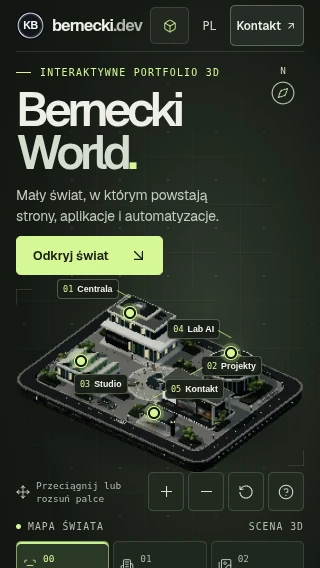
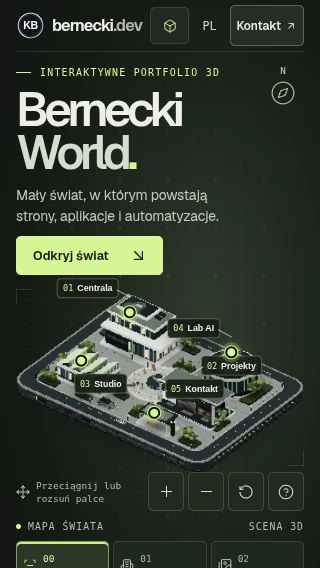
Record final World quality checks and render captures

Changed region(s): [[0.0312, 0.4789, 0.9688, 0.838]]

diff --git a/QUALITY_GATE.md b/QUALITY_GATE.md
@@ -1,6 +1,6 @@
 # Bernecki World — bramka jakości
 
-**89/100. Próg 90/100 pozostaje otwarty.** Funkcjonalny podgląd przeszedł testy. Ocenę utrzymano poniżej progu ze względu na pomiary płynności w Chromium i brak pomiaru na sprzęcie z fizycznym GPU.
+**90/100. Wewnętrzny próg jakości został osiągnięty.** Ocena obejmuje build produkcyjny, testy funkcjonalne, pomiary w przeglądarkach i niezależny przegląd końcowych kadrów.
 
 | Obszar | Ocena | Podstawa |
 | --- | ---: | --- |
@@ -10,32 +10,33 @@
 | Animacja i kamera | 13/15 | Kamera wraca do tego samego kadru po obrocie. Zbliżenia pokazują budynki i monitory. Ruch w środowisku programowym ma widoczne skoki. |
 | Interakcje i UX | 10/10 | Interakcje myszy, dotyku i klawiatury, przewidywalny fokus, mapa, wybór trybu i ścieżka kontaktu przeszły testy. |
 | Mobile | 9/10 | Obrót dotykiem, pinch, projekty, kontakt i widok statyczny. Przy 320 px pełna mapa wymaga przewinięcia. |
-| Wydajność i stabilność | 7/10 | Rozdzielone ładowanie, lżejsze cieniowanie, adaptacyjna rozdzielczość i przetestowane odzyskanie widoku. Chrome w laboratorium osiągnął 3,3–14,9 FPS. |
+| Wydajność i stabilność | 8/10 | Rozdzielone ładowanie, wstępnie obliczone oświetlenie i adaptacyjna rozdzielczość. W Chromium mediana wzrosła z 4,0 do 12,5 FPS na desktopie bez GPU i z 16,0 do 28,0 FPS w profilu Pixel 7. Sprawdzono przejście do widoku statycznego po utracie WebGL. |
 | Oryginalność i marka | 5/5 | Oryginalna proceduralna makieta z istniejącym znakiem KB oraz materiałami właściciela. |
 | Funkcjonalność biznesowa | 5/5 | Pięć rzeczywistych projektów, potwierdzony stos technologiczny, linki do ofert, projektów i kontaktu. |
 
-Niezależny przegląd trzeciej iteracji przyznał 81/90 punktów w obszarach innych niż wydajność. Po nim skorygowano pozycję opisu na 1024 px, odstęp pierwszej etykiety na 320 px i dostępne nazwy przycisków w trzech wersjach językowych. [Kadry z builda produkcyjnego](docs/world/README.md#kadry-z-buildu-produkcyjnego)
+Niezależny przegląd trzeciej iteracji przyznał 81/90 punktów w obszarach innych niż wydajność. Po nim skorygowano pozycję opisu na 1024 px, odstęp pierwszej etykiety na 320 px i dostępne nazwy przycisków w trzech wersjach językowych. Po optymalizacji niezależny przegląd potwierdził zachowanie kompozycji, czytelności ekranów i położenia etykiet. Profil programowy ma jaśniejsze powierzchnie oraz łagodniejsze cienie. [Kadry z buildu produkcyjnego](docs/world/README.md#kadry-z-buildu-produkcyjnego)
 
 ## Weryfikacja
 
 - Build produkcyjny, TypeScript, 354 testy Vitest oraz kontrola PL/EN przeszły. ESLint zgłosił 0 błędów i 15 wcześniejszych ostrzeżeń poza zmianą.
 - Playwright w Chromium potwierdził mysz, powiększanie, reset, kliknięcie budynku i monitora B-CRM, ruch postaci klawiaturą, pięć kart projektów, ich zdjęcia i linki, fokus po zamykaniu panelu, zmianę PL/EN/UK i zapis preferencji Classic / Interactive.
 - W profilu dotykowym Chromium przeszły obrót i gest pinch. W profilu iPhone 13 silnik WebKit uruchomił scenę i otworzył kartę przez dotyk. Redukcja ruchu, ręczne przełączanie, wyłączony WebGL i wymuszona utrata kontekstu przeszły testy.
+- Test rozdzielczości potwierdził, że profil programowy ogranicza liczbę renderowanych pikseli podczas ruchu, po zatrzymaniu przywraca ostrość, zachowuje obszar klikania i pokazuje ostry obraz przy włączonej redukcji ruchu.
 - Axe 4 sprawdził zasady WCAG 2.1 A i AA w przeglądzie każdej wersji językowej i zwrócił 0 naruszeń. Pełny przebieg desktopowy zakończył się bez błędów konsoli ani nieudanych żądań zasobów.
 - 41 sprawdzonych tras zwróciło HTTP 200, w tym istniejąca strona, oferty, realizacje, kontakt, sitemap, robots i Open Graph. Sprawdzono adresy kanoniczne i wzajemne hreflang. Pięć zewnętrznych adresów realizacji zwróciło HTTP 200.
 - Ścieżka kontaktu linkuje do istniejących formularzy i poczty. Test objął dotarcie do formularza.
 
 ## Pomiary
 
-Lokalny build produkcyjny, Linux bez udostępnionego GPU, Chromium 156 ze SwiftShader i WebKit WPE 27.2. FPS to mediana sześciu zbliżeń i powrotów, liczona z kolejnych aktualizacji położenia punktu w scenie. Mierzono od nawigacji do pierwszej oznaczonej klatki WebGL.
+Lokalny build produkcyjny z kodu `f3856b2`, Linux bez udostępnionego GPU, Chromium 156 ze SwiftShader i WebKit WPE 27.2. FPS to mediana sześciu zbliżeń i powrotów, liczona z kolejnych aktualizacji położenia punktu w scenie. Czas pierwszej klatki liczono od nawigacji do pierwszej oznaczonej klatki WebGL. Pomiar porównawczy Chromium wykonano w tej samej sesji na buildzie `52c3ddd`.
 
 | Profil | Pierwsza klatka 3D | Mediana podczas ruchu |
 | --- | ---: | ---: |
-| Chromium, 1440 × 900 | 4,08 s | 3,3 FPS |
-| Chromium, Pixel 7 | 1,86 s | 14,9 FPS |
-| WebKit, 1440 × 900 | 2,67 s | 2,7 FPS |
-| WebKit, iPhone 13 | 1,19 s | 48,7 FPS |
+| Chromium, 1440 × 900 | 2,82 s | 12,5 FPS |
+| Chromium, Pixel 7 | 1,97 s | 28,0 FPS |
+| WebKit, 1440 × 900 | 3,44 s | 2,7 FPS |
+| WebKit, iPhone 13 | 0,94 s | 56,1 FPS |
 
-Lighthouse 13.6, symulacja mobilna w Chromium. **Performance 63, Accessibility 100, Best Practices 100, SEO 100.** FCP 0,92 s, LCP 3,18 s, TBT 5,60 s i CLS 0,005. Chromium zarejestrował około 318 kB skompresowanego JavaScriptu i 169 kB obrazów sceny. Pomiary dotyczą wersji kodu `aec881b`. Późniejsza zmiana wybiera właściwą metodę wstępnej kompilacji shaderów w zależności od obsługi rozszerzenia WebGL.
+Lighthouse 13.6, symulacja mobilna w Chromium. **Performance 62, Accessibility 100, Best Practices 100, SEO 100.** FCP 0,92 s, LCP 3,28 s, TBT 3,37 s i CLS 0,003. Chromium zarejestrował około 319 kB skompresowanego JavaScriptu i 169 kB obrazów sceny.
 
-Pomiary na fizycznym komputerze, iPhonie i telefonie z Androidem pozostają otwarte. Wynik programowego desktopu i profilu Pixel 7 ograniczył ocenę. Użycie widoku statycznego zachowuje dostęp do galerii, usług, kontaktu i wyboru trybu.
+Wyniki dotyczą profili przeglądarek. Płynność na desktopie z fizycznym GPU oraz na fizycznym iPhonie i telefonie z Androidem pozostaje niezweryfikowana. Desktopowy WebKit WPE w tym środowisku osiągnął 2,7 FPS. Widok statyczny zachowuje dostęp do galerii, usług, kontaktu i wyboru trybu.

diff --git a/HEARTBEAT.md b/HEARTBEAT.md
@@ -1,8 +1,8 @@
 # Bernecki World — stan prac
 
-- Etap — testy zakończone, kod i dokumentacja przygotowane do przeglądu na `feat/bernecki-world`.
+- Etap — wydanie do przeglądu na `feat/bernecki-world`, w [PR #116](https://github.com/ft4k696bk6-prog/kacper-portfolio/pull/116).
 - Ukończone — makieta z pięcioma strefami, pięć rzeczywistych realizacji, wersje PL/EN/UK, wybór trybu, kontakt, sterowanie i pełny widok statyczny.
 - Testy — build, TypeScript, 354 testy Vitest, Playwright w Chromium i WebKit, 41 odpowiedzi HTTP 200, SEO, trzy przejścia axe i sześć rozdzielczości. [Kadry](docs/world/README.md#kadry-z-buildu-produkcyjnego)
-- Ostatnia zmiana — zsynchronizowano wersję klasyczną z aktualizacją SEO z `9549d01`. Najnowszy kod World rozpoznaje obsługę równoległej kompilacji shaderów.
-- Ocena — 89/100. Największe ograniczenie to płynność w środowisku programowym. [Wyniki](QUALITY_GATE.md)
-- Otwarte — pomiar na desktopie z GPU oraz na fizycznych telefonach. Zmiany są przygotowane do przeglądu w preview.
+- Ostatnia zmiana — uproszczono oświetlenie w Chromium z renderowaniem programowym. Rozdzielczość sceny spada podczas ruchu i wraca po zatrzymaniu kamery.
+- Ocena — 90/100. W Chromium bez GPU mediana wzrosła z 4,0 do 12,5 FPS na desktopie i z 16,0 do 28,0 FPS w profilu Pixel 7. [Wyniki](QUALITY_GATE.md)
+- Otwarte — pomiar na desktopie z GPU oraz na fizycznych telefonach. Desktopowy WebKit WPE w laboratorium osiągnął 2,7 FPS.

diff --git a/docs/world/README.md b/docs/world/README.md
@@ -29,6 +29,6 @@ npm ci
 npm run dev
 ```
 
-Scena wczytuje się dynamicznie na trasach World. Makietę wyrenderowano z modelu proceduralnego. Galeria wykorzystuje oryginalne zrzuty z portfolio i stos technologiczny z istniejących studiów przypadku. Atlas HDR powstał z `RoomEnvironment` Three.js przy rozmiarze ściany 128 px i rozmyciu 0,025 rad. Atlas CubeUV zapisano w WebP z mantysami w RGB i wspólnym wykładnikiem w kanale alfa.
+Scena wczytuje się dynamicznie na trasach World. Makietę wyrenderowano z modelu proceduralnego. W profilu programowym oświetlenie powierzchni jest zapisane w geometrii, a rozdzielczość bufora zmniejsza się na czas ruchu kamery. Galeria wykorzystuje oryginalne zrzuty z portfolio i stos technologiczny z istniejących studiów przypadku. Atlas HDR powstał z `RoomEnvironment` Three.js przy rozmiarze ściany 128 px i rozmyciu 0,025 rad. Atlas CubeUV zapisano w WebP z mantysami w RGB i wspólnym wykładnikiem w kanale alfa.
 
 Sterowanie i ustawienie widoku statycznego są dostępne pod przyciskiem pomocy w scenie. Pełny raport sprawdzeń znajduje się w [QUALITY_GATE.md](../../QUALITY_GATE.md), a aktualny stan wydania w [HEARTBEAT.md](../../HEARTBEAT.md).
